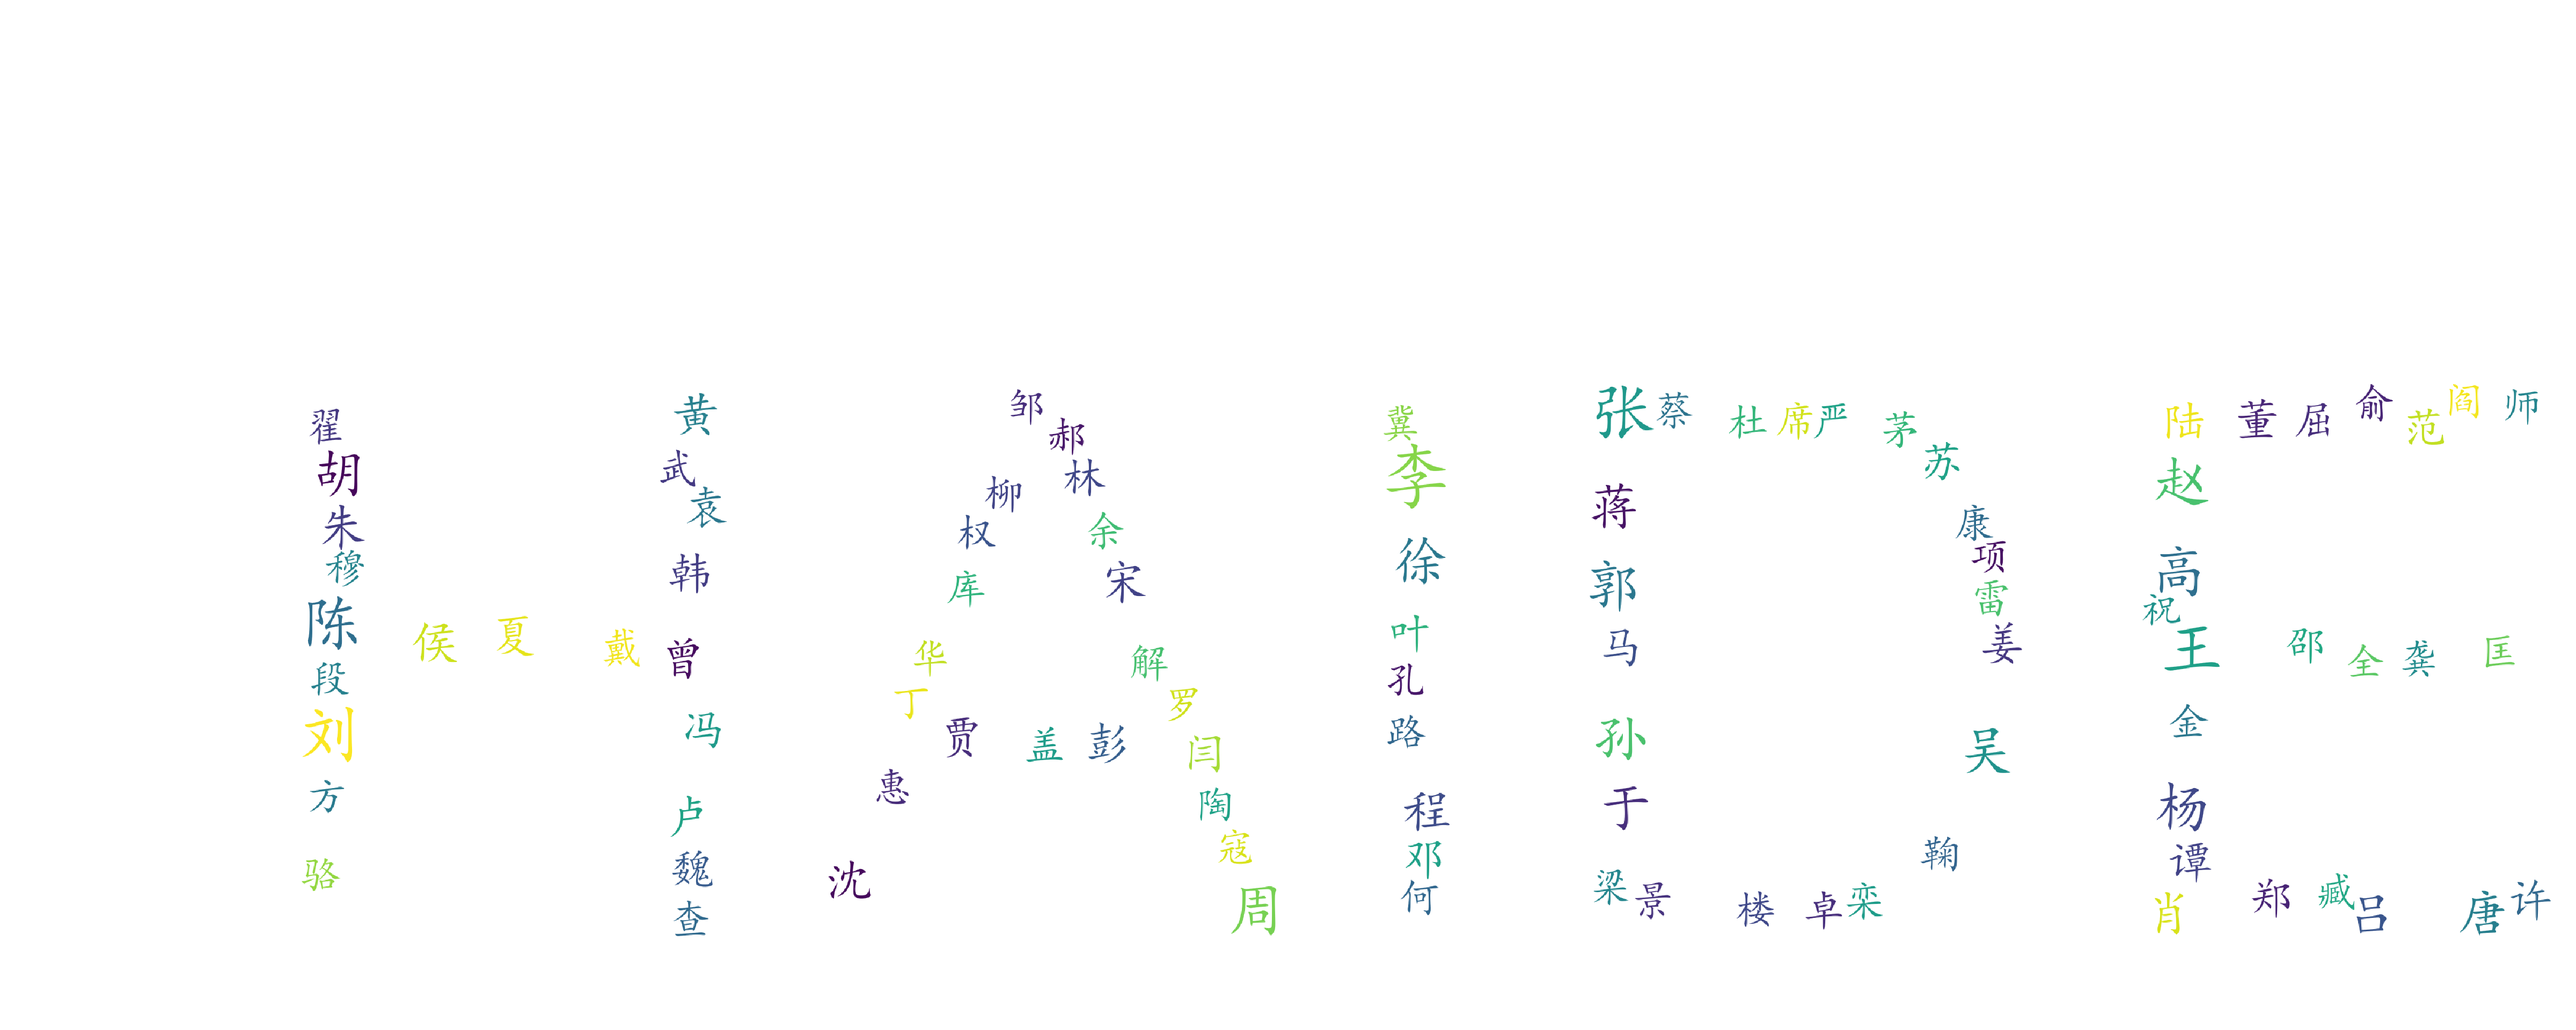
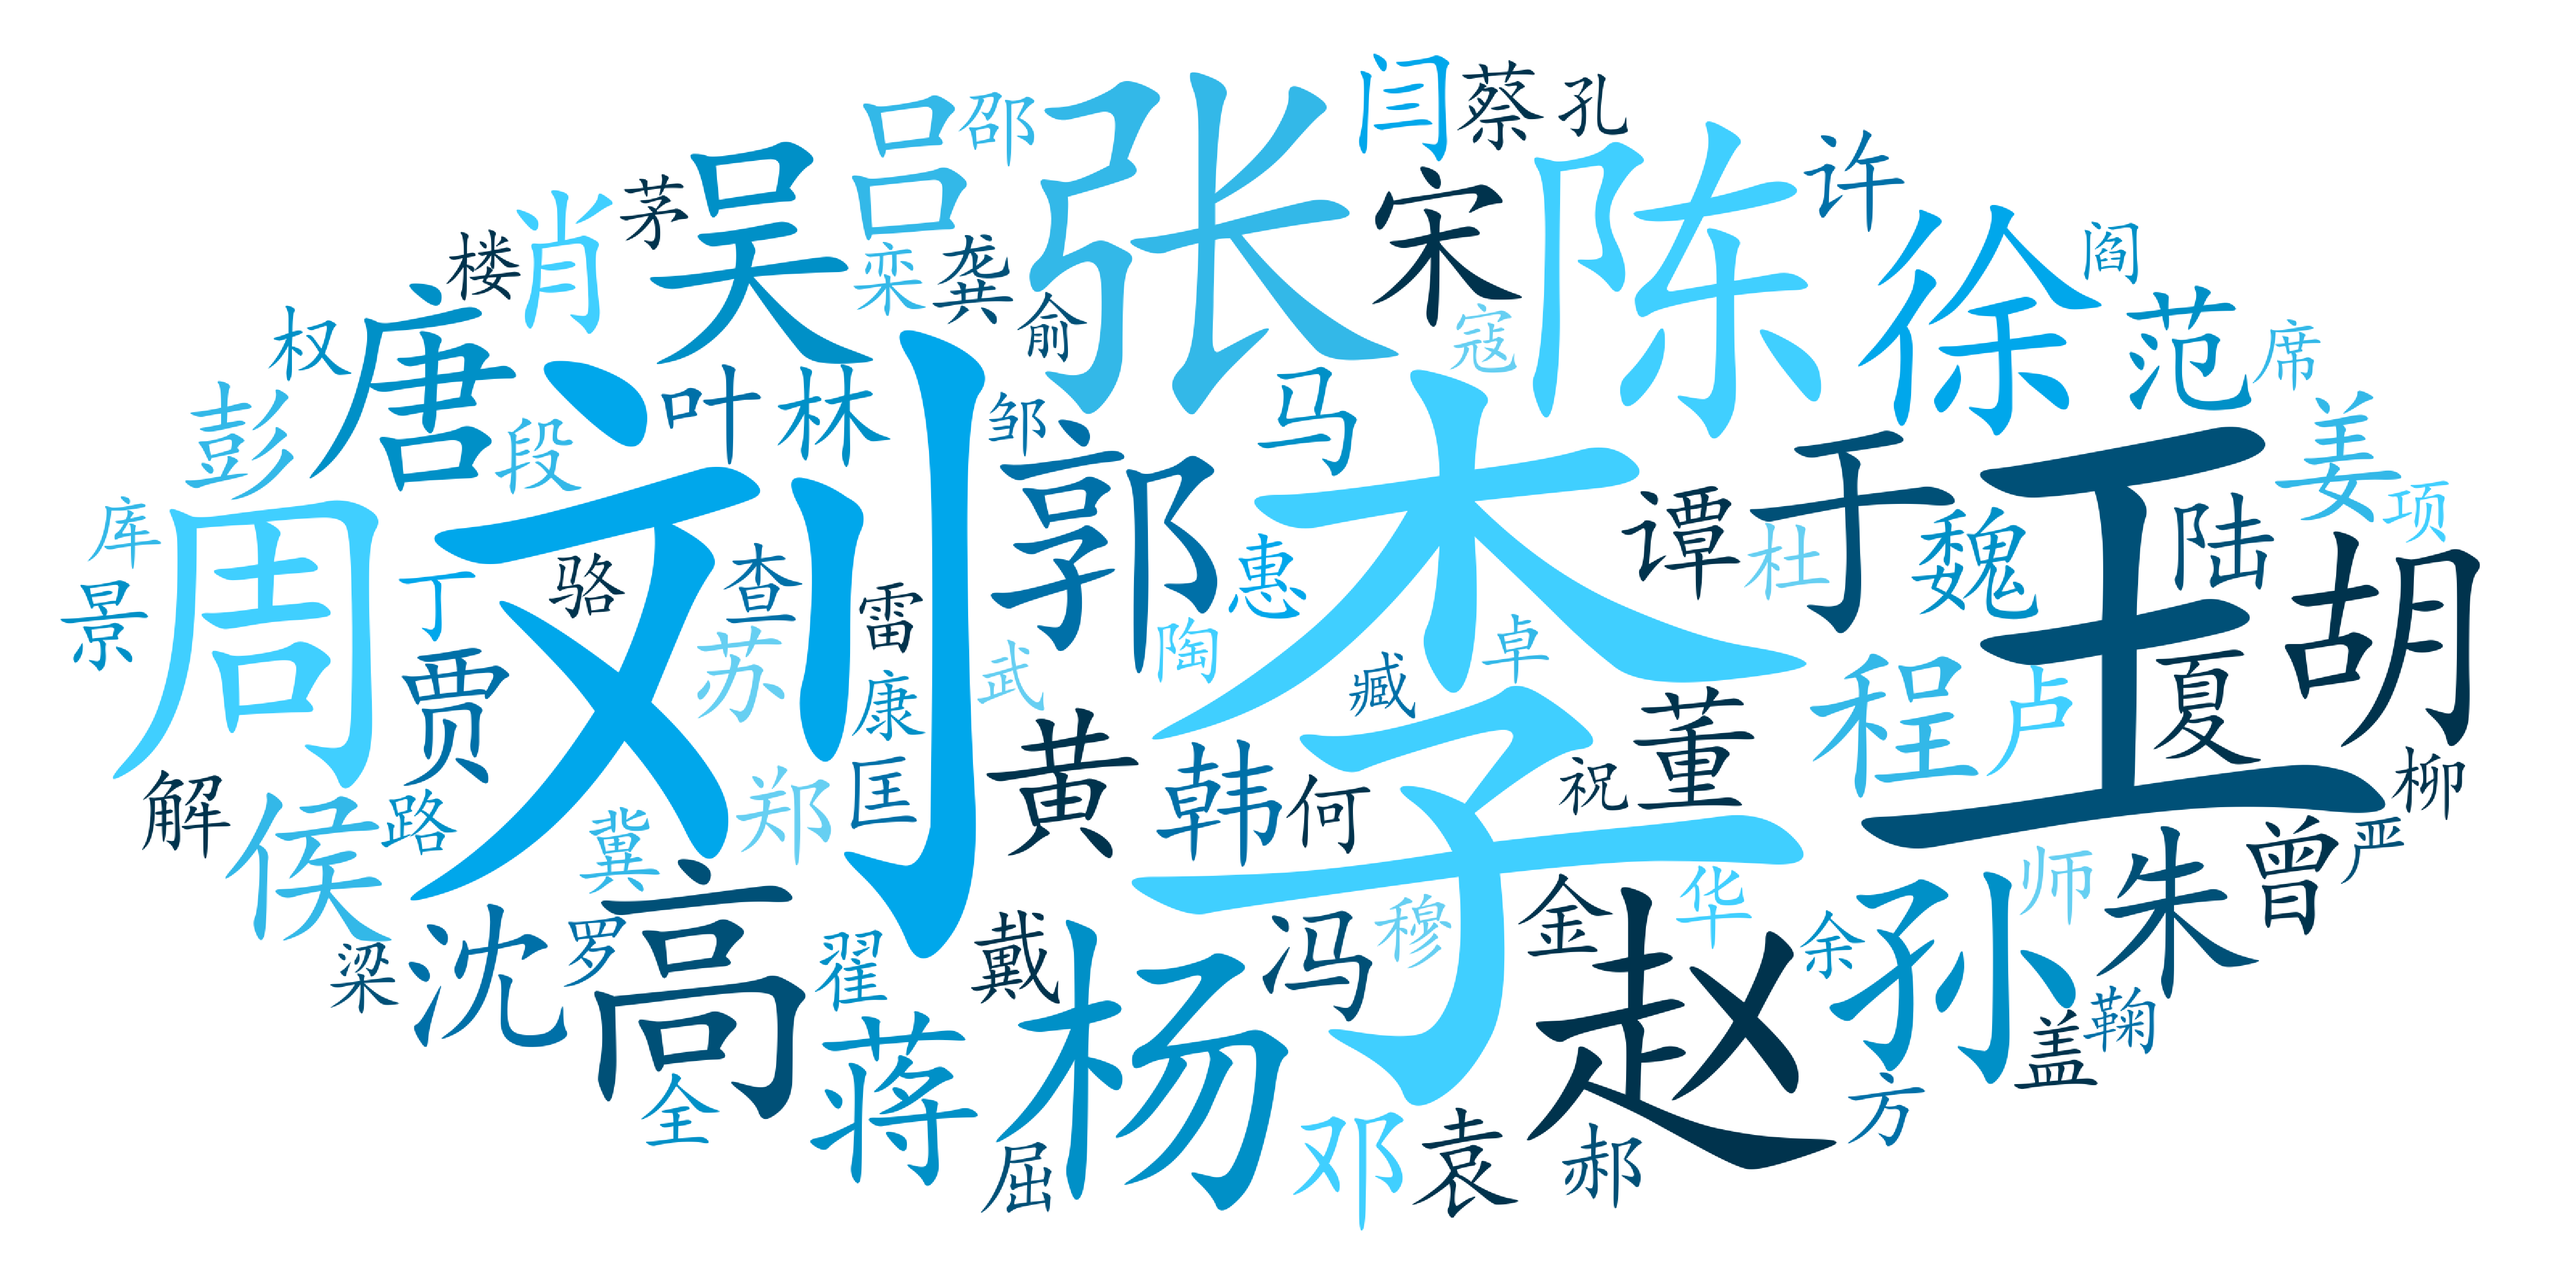
update

Changed region(s): [[0.0312, 0.0312, 1.0, 0.9375], [0.875, 0.8438, 0.9688, 0.9062]]

diff --git a/name_wordcloud.py b/name_wordcloud.py
@@ -14,7 +14,8 @@ surnames = df[name_col].dropna().astype(str).str[0]
 # 统计姓氏频率
 dict_freq = surnames.value_counts().to_dict()
 
-# 生成反向mask，中央椭圆为空白，内容分布在外部
+
+# 生成反向椭圆mask，中央椭圆留白，内容分布在外部
 ellipse_width, ellipse_height = 1600, 800
 # 椭圆尽可能铺满整个屏幕，只留极小边距
 pad_x, pad_y = 30, 30
@@ -24,37 +25,13 @@ draw.ellipse([(pad_x, pad_y), (ellipse_width-pad_x-1, ellipse_height-pad_y-1)], 
 ellipse_mask = np.array(ellipse_img)
 
 # 生成高分辨率椭圆词云，减小margin使内容更集中
-mask_width, mask_height = 2000, 800
-mask_img = Image.new('L', (mask_width, mask_height), 255)  # 白底
-draw = ImageDraw.Draw(mask_img)
-from PIL import ImageFont
-try:
-	font = ImageFont.truetype('arial.ttf', 600)
-except:
-	font = ImageFont.load_default()
-# 居中绘制HAIDE，并整体右移
-text = "HAIDE"
-try:
-	bbox = font.getbbox(text)
-	text_width, text_height = bbox[2] - bbox[0], bbox[3] - bbox[1]
-except AttributeError:
-	text_width, text_height = font.getsize(text)
-# 右移100像素
-text_x = (mask_width - text_width) // 2 + 100
-text_y = (mask_height - text_height) // 2
-draw.text((text_x, text_y), text, font=font, fill=0)
-haide_mask = np.array(mask_img)
-
-wc = WordCloud(font_path='simkai.ttf', width=mask_width, height=mask_height, background_color='white', scale=2, mask=haide_mask, margin=2, collocations=False, prefer_horizontal=1.0)
-wc.generate_from_frequencies(dict_freq)
-# 生成HAIDE字母词云（更紧凑）
 wc = WordCloud(
 	font_path='simkai.ttf',
-	width=mask_width,
-	height=mask_height,
+	width=ellipse_width,
+	height=ellipse_height,
 	background_color='white',
 	scale=2,
-	mask=haide_mask,
+	mask=ellipse_mask,
 	margin=0,
 	max_words=1000,
 	relative_scaling=0.2,
@@ -62,6 +39,28 @@ wc = WordCloud(
 	prefer_horizontal=1.0
 )
 wc.generate_from_frequencies(dict_freq)
+
+# 自定义颜色函数，主色调为00A7EB，增强对比度
+from wordcloud import get_single_color_func
+class BlueColorFunc(object):
+	def __init__(self, base_color='#00A7EB'):
+		self.base_color = base_color
+		# 增加更深和更亮的蓝色，增强对比
+		self.variations = [
+			'#00A7EB',  # 主色
+			'#0070A8',  # 深蓝
+			'#33B8E8',  # 浅蓝
+			'#005077',  # 极深蓝
+			'#66CFF2',  # 亮蓝
+			'#00334D',  # 最深蓝
+			'#40CFFF',  # 高亮蓝
+			'#0090C7',  # 中蓝
+		]
+	def __call__(self, word, font_size, position, orientation, random_state=None, **kwargs):
+		import random
+		return random.choice(self.variations)
+
+wc.recolor(color_func=BlueColorFunc())
 
 # 显示并保存高分辨率词云
 plt.figure(figsize=(16, 8), dpi=100)
